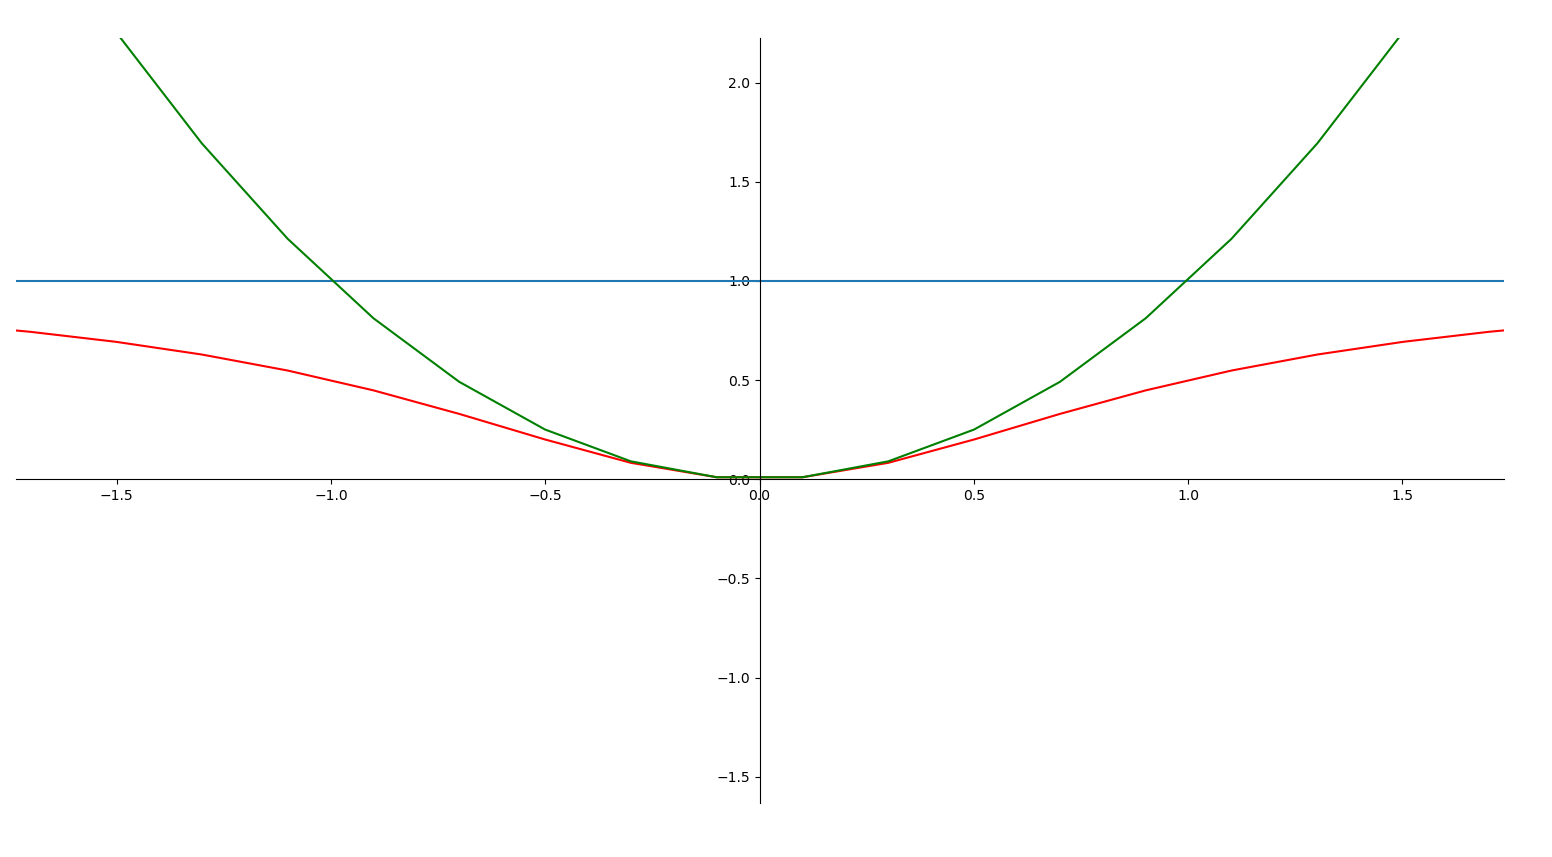
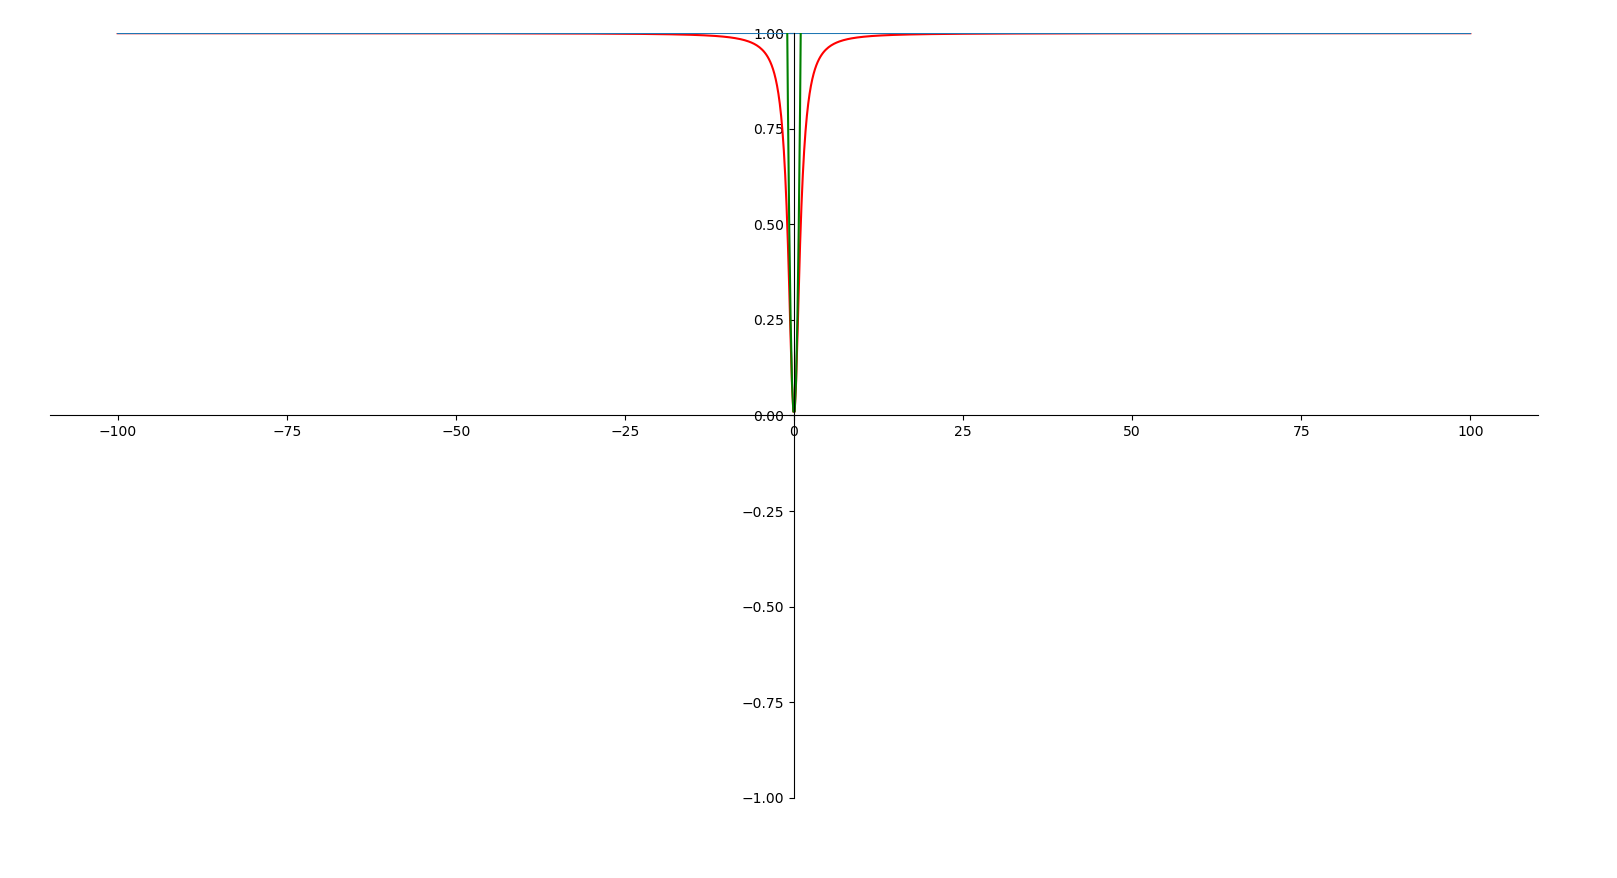
adaugat limite pe axa Oy si am schimbat poa in consecinta

diff --git a/lab1/lab1.py b/lab1/lab1.py
@@ -18,6 +18,9 @@ ax.spines['top'].set_color('none')
 ax.xaxis.set_ticks_position('bottom')
 ax.yaxis.set_ticks_position('left')
 
+plt.ylim(top=1)
+plt.ylim(bottom=-1)
+
 # plot the function
 # die Asympthote ist die Gerade y = 1.
 
